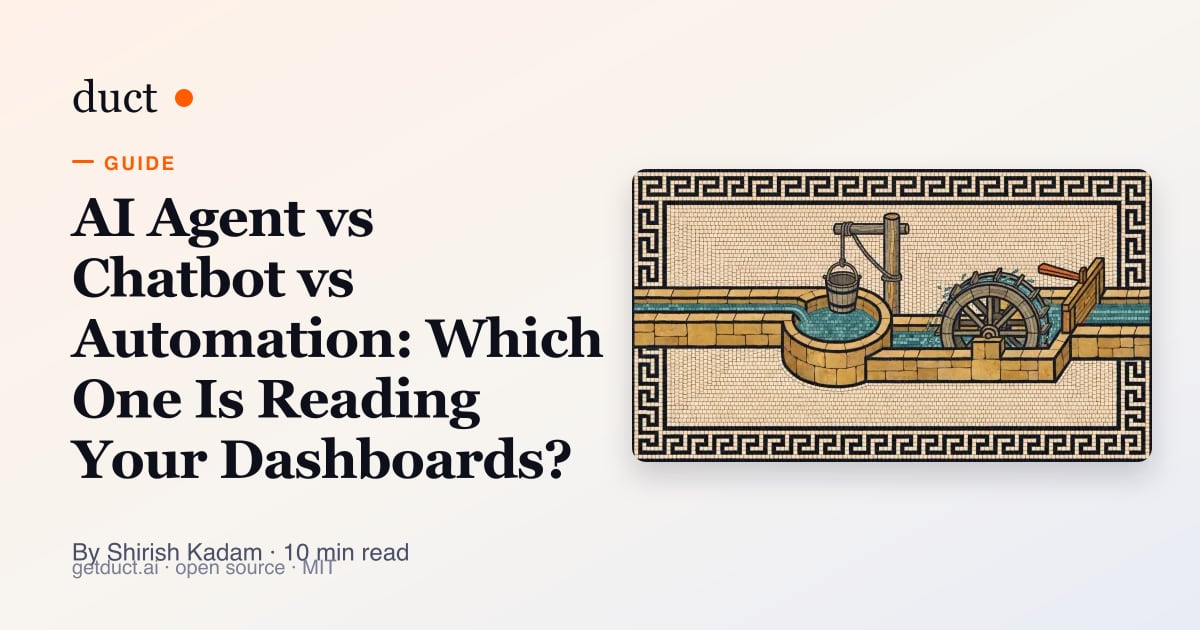
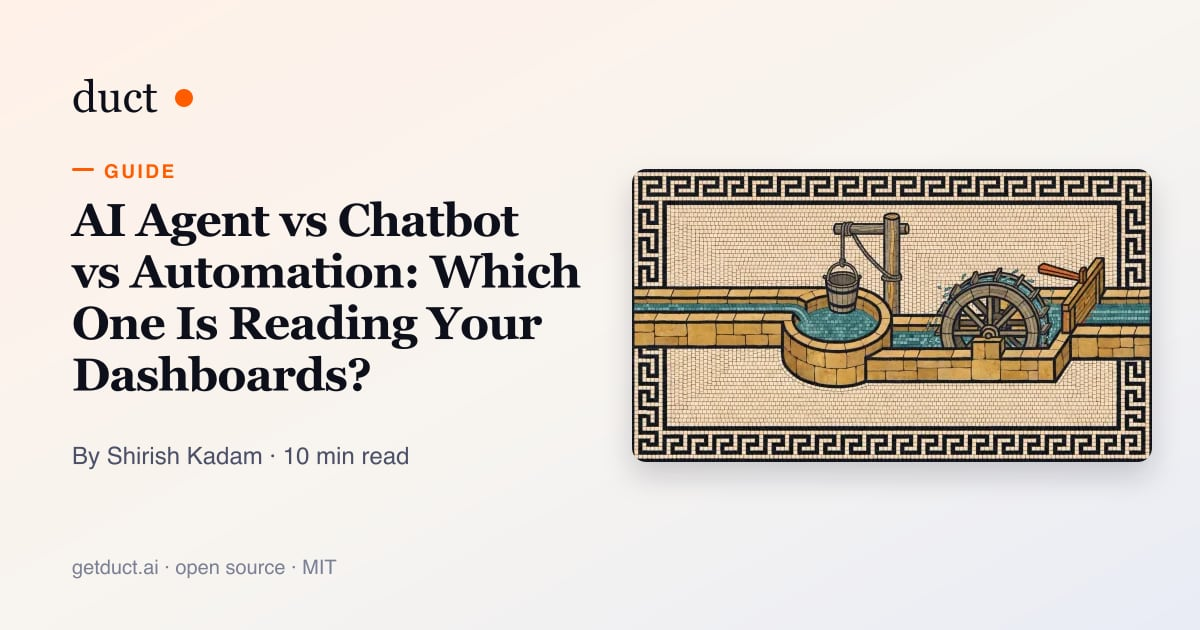
site(blog): guide 1, fixes from the visual pass
From a visual pass over every page, figure, card and hero in the cluster:

- the pull quote from execution_tools.py stops before the docstring's em dash
- the figure caption no longer repeats the figure's subtitle
- American spelling throughout
- the share card's byline clears the footer (the card generator fix on the base branch)

Refs #431

Changed region(s): [[0.0617, 0.2413, 0.5242, 0.7841], [0.0617, 0.8444, 0.2158, 0.9048], [0.2467, 0.8444, 0.3392, 0.9048]]

diff --git a/site/blog/ai-agent-vs-chatbot-vs-automation.html b/site/blog/ai-agent-vs-chatbot-vs-automation.html
@@ -42,7 +42,7 @@
   "datePublished": "2026-11-03T00:00:00+00:00",
   "dateModified": "2026-11-03T00:00:00+00:00",
   "articleSection": "Guide",
-  "wordCount": 2111,
+  "wordCount": 2106,
   "author": {
     "@type": "Person",
     "name": "Shirish Kadam",
@@ -433,7 +433,7 @@
 <li><strong>Does it read more than one source?</strong> A chatbot reads the chat. An automation reads one tool per step, in the order someone wired. An agent reads whatever the question needs, and the useful ones say which sources they could not reach.</li>
 <li><strong>Can it change something, and who says yes?</strong> A chatbot cannot touch your ad account. An automation changes things without asking, which is the point of it. An agent should be able to propose a change and should not be able to apply the risky ones itself. If the demo never shows an approval step, ask where it is.</li>
 </ol>
-<figure class="post-figure" data-zoom><img src="assets/ai-agent-vs-chatbot-vs-automation/three-forms.svg" width="1000" height="640" loading="lazy" decoding="async" alt="Three rows, one per form, each with five boxes for trigger, input, decides, reads and changes. Only the agent row has an orange loop from reads back to decides, and only its decide and change boxes are highlighted."/><figcaption>Cover the row labels. The orange loop is the only thing that makes the third row an agent.</figcaption></figure>
+<figure class="post-figure" data-zoom><img src="assets/ai-agent-vs-chatbot-vs-automation/three-forms.svg" width="1000" height="640" loading="lazy" decoding="async" alt="Three rows, one per form, each with five boxes for trigger, input, decides, reads and changes. Only the agent row has an orange loop from reads back to decides, and only its decide and change boxes are highlighted."/><figcaption>A chatbot stops after one answer and an automation never decides. Only the agent row goes back from reading to deciding.</figcaption></figure>
 <p>The vendor tell is question one. A demo that shows a long list of steps happening on their own is showing an automation. The agent is the moment the list changes because of what step two found.</p>
 <h2 id="the-monday-growth-report-done-three-ways">The Monday growth report, done three ways</h2>
 <p><strong>The job is the same every week: read Google Ads, GA4, Search Console and Stripe, say what moved and why, and say what to do about it. What differs is what each form can notice.</strong></p>
@@ -449,17 +449,17 @@
 </tbody>
 </table>
 </div>
-<p>The row that matters is the third one, and I have a number for it. Duct's integrity checks are modelled on a Google Ads engagement where, <a href="https://github.com/5hirish/duct/blob/main/backend/agents/insights/checks.py">by that project's own accounting</a>, 60% of 93 turns in a month went on establishing whether a number could be trusted at all, and 16% on actually improving anything. Every serious defect found that month looked healthy on a dashboard: an experiment "running" with nobody bucketed for 74 days, a tag that "fired" but failed at runtime, and 23 of 36 "upgrades" coming from seven QA accounts in one country.</p>
+<p>The row that matters is the third one, and I have a number for it. Duct's integrity checks are modeled on a Google Ads engagement where, <a href="https://github.com/5hirish/duct/blob/main/backend/agents/insights/checks.py">by that project's own accounting</a>, 60% of 93 turns in a month went on establishing whether a number could be trusted at all, and 16% on actually improving anything. Every serious defect found that month looked healthy on a dashboard: an experiment "running" with nobody bucketed for 74 days, a tag that "fired" but failed at runtime, and 23 of 36 "upgrades" coming from seven QA accounts in one country.</p>
 <p>An automation would have posted those 36 upgrades to Slack every Monday. A chatbot would have written a cheerful paragraph about them. Catching them took something that decided, on its own, to look at where the upgrades came from. A dashboard renders a corrupt number in the same font as a correct one, and so does an automation.</p>
 <h2 id="where-does-agent-end-and-automation-begin-in-real-code">Where does "agent" end and "automation" begin in real code?</h2>
 <p><strong>In Duct it ends at a tool that does not exist. The agent can propose a change and inspect its status; there is no tool it can call to approve or apply one.</strong></p>
 <p>Files rather than adjectives here, because this is the part of the test a demo can fake and a repository cannot. Two things changed on August 31 when the wizard went.</p>
 <p>The first is who decides what to read. The old pipeline's model chose among at most eight pre-bound tools with no arguments. The new one, in <a href="https://github.com/5hirish/duct/blob/main/backend/agents/insights/prompts/autonomous.py"><code>backend/agents/insights/prompts/autonomous.py</code></a>, is told it "decides for itself what to look at", carries a trust protocol that says "never present a figure you did not fetch or were not given", and can ask you a question mid-run when a connector is missing. The unattended brief, the one a cron job can request on Monday morning (Duct has the entry point and does not yet own the clock), is the same agent with the same tools and one difference: nothing that can pause is mounted, because there is nobody at the keyboard, so a question it cannot ask becomes a stated assumption in the brief.</p>
 <figure class="post-figure" data-zoom><img src="../assets/media/insights-session.webp" srcset="../assets/media/insights-session-768.webp 768w, ../assets/media/insights-session-1536.webp 1536w, ../assets/media/insights-session.webp 3072w" sizes="(max-width: 700px) calc(100vw - 48px), 652px" width="3072" height="2052" loading="lazy" decoding="async" alt="Duct&#x27;s insights session: a chat on the left where the agent has proposed a change and is waiting for approval, and the brief it wrote on the right"/><figcaption>The same agent, two triggers: a question in the chat, or an unattended request on Monday morning. Either way the proposed change waits for a person.</figcaption></figure>
-<p>The second is who decides what to change. The agent's execution tools are in <a href="https://github.com/5hirish/duct/blob/main/backend/agents/tools/execution_tools.py"><code>backend/agents/tools/execution_tools.py</code></a>, and the docstring is the whole policy in one line:</p>
+<p>The second is who decides what to change. The agent's execution tools are in <a href="https://github.com/5hirish/duct/blob/main/backend/agents/tools/execution_tools.py"><code>backend/agents/tools/execution_tools.py</code></a>, and its docstring says it in seven words:</p>
 <figure class="post-quote">
 <blockquote cite="https://github.com/5hirish/duct/blob/main/backend/agents/tools/execution_tools.py">
-<p>There is no approve or apply tool — approval is human-only by construction.</p>
+<p>There is no approve or apply tool.</p>
 </blockquote>
 <figcaption><a href="https://github.com/5hirish/duct/blob/main/backend/agents/tools/execution_tools.py">Duct, execution_tools.py</a></figcaption>
 </figure>

diff --git a/site/blog/posts/ai-agent-vs-chatbot-vs-automation.md b/site/blog/posts/ai-agent-vs-chatbot-vs-automation.md
@@ -52,7 +52,7 @@ The last row is the honest one. An agent is the most expensive and the slowest o
 2. **Does it read more than one source?** A chatbot reads the chat. An automation reads one tool per step, in the order someone wired. An agent reads whatever the question needs, and the useful ones say which sources they could not reach.
 3. **Can it change something, and who says yes?** A chatbot cannot touch your ad account. An automation changes things without asking, which is the point of it. An agent should be able to propose a change and should not be able to apply the risky ones itself. If the demo never shows an approval step, ask where it is.
 
-![Three rows, one per form, each with five boxes for trigger, input, decides, reads and changes. Only the agent row has an orange loop from reads back to decides, and only its decide and change boxes are highlighted.](assets/ai-agent-vs-chatbot-vs-automation/three-forms.svg "Cover the row labels. The orange loop is the only thing that makes the third row an agent.")
+![Three rows, one per form, each with five boxes for trigger, input, decides, reads and changes. Only the agent row has an orange loop from reads back to decides, and only its decide and change boxes are highlighted.](assets/ai-agent-vs-chatbot-vs-automation/three-forms.svg "A chatbot stops after one answer and an automation never decides. Only the agent row goes back from reading to deciding.")
 
 The vendor tell is question one. A demo that shows a long list of steps happening on their own is showing an automation. The agent is the moment the list changes because of what step two found.
 
@@ -68,7 +68,7 @@ The vendor tell is question one. A demo that shows a long list of steps happenin
 | "Pause that campaign" | it tells you how | a step could do it, every time, unasked | it proposes the pause; you approve it |
 | What you still do | the reading | the thinking | the approving |
 
-The row that matters is the third one, and I have a number for it. Duct's integrity checks are modelled on a Google Ads engagement where, [by that project's own accounting](https://github.com/5hirish/duct/blob/main/backend/agents/insights/checks.py), 60% of 93 turns in a month went on establishing whether a number could be trusted at all, and 16% on actually improving anything. Every serious defect found that month looked healthy on a dashboard: an experiment "running" with nobody bucketed for 74 days, a tag that "fired" but failed at runtime, and 23 of 36 "upgrades" coming from seven QA accounts in one country.
+The row that matters is the third one, and I have a number for it. Duct's integrity checks are modeled on a Google Ads engagement where, [by that project's own accounting](https://github.com/5hirish/duct/blob/main/backend/agents/insights/checks.py), 60% of 93 turns in a month went on establishing whether a number could be trusted at all, and 16% on actually improving anything. Every serious defect found that month looked healthy on a dashboard: an experiment "running" with nobody bucketed for 74 days, a tag that "fired" but failed at runtime, and 23 of 36 "upgrades" coming from seven QA accounts in one country.
 
 An automation would have posted those 36 upgrades to Slack every Monday. A chatbot would have written a cheerful paragraph about them. Catching them took something that decided, on its own, to look at where the upgrades came from. A dashboard renders a corrupt number in the same font as a correct one, and so does an automation.
 
@@ -82,9 +82,9 @@ The first is who decides what to read. The old pipeline's model chose among at m
 
 ![Duct's insights session: a chat on the left where the agent has proposed a change and is waiting for approval, and the brief it wrote on the right](../assets/media/insights-session.webp "The same agent, two triggers: a question in the chat, or an unattended request on Monday morning. Either way the proposed change waits for a person.")
 
-The second is who decides what to change. The agent's execution tools are in [`backend/agents/tools/execution_tools.py`](https://github.com/5hirish/duct/blob/main/backend/agents/tools/execution_tools.py), and the docstring is the whole policy in one line:
+The second is who decides what to change. The agent's execution tools are in [`backend/agents/tools/execution_tools.py`](https://github.com/5hirish/duct/blob/main/backend/agents/tools/execution_tools.py), and its docstring says it in seven words:
 
-> There is no approve or apply tool — approval is human-only by construction.
+> There is no approve or apply tool.
 > -- [Duct, execution_tools.py](https://github.com/5hirish/duct/blob/main/backend/agents/tools/execution_tools.py)
 
 What may apply without a click is decided once, in [`policy.py`](https://github.com/5hirish/duct/blob/main/backend/service/execution/policy.py): a short allowlist of reversible edits such as adding negative keywords or creating a GA4 audience, and only when you have set the project's autonomy to assisted or auto. Budget and bid changes stay off that list because they move money. Anything destructive, such as publishing a Tag Manager version, waits for a person at every level. A [test file](https://github.com/5hirish/duct/blob/main/backend/tests/test_execution_policy.py) holds all of that in place, so a future prompt change cannot quietly widen it.
